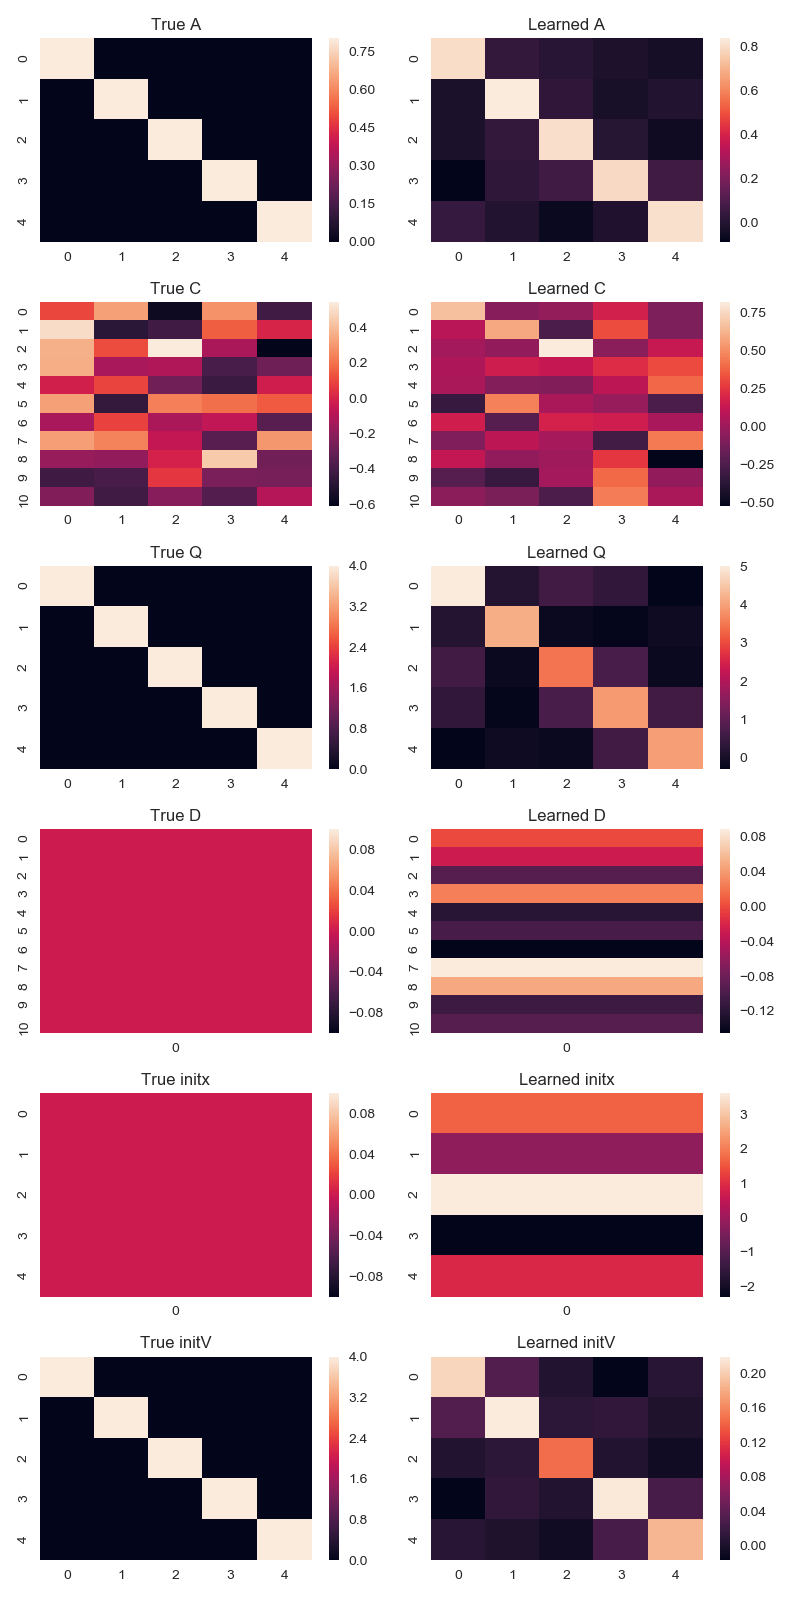
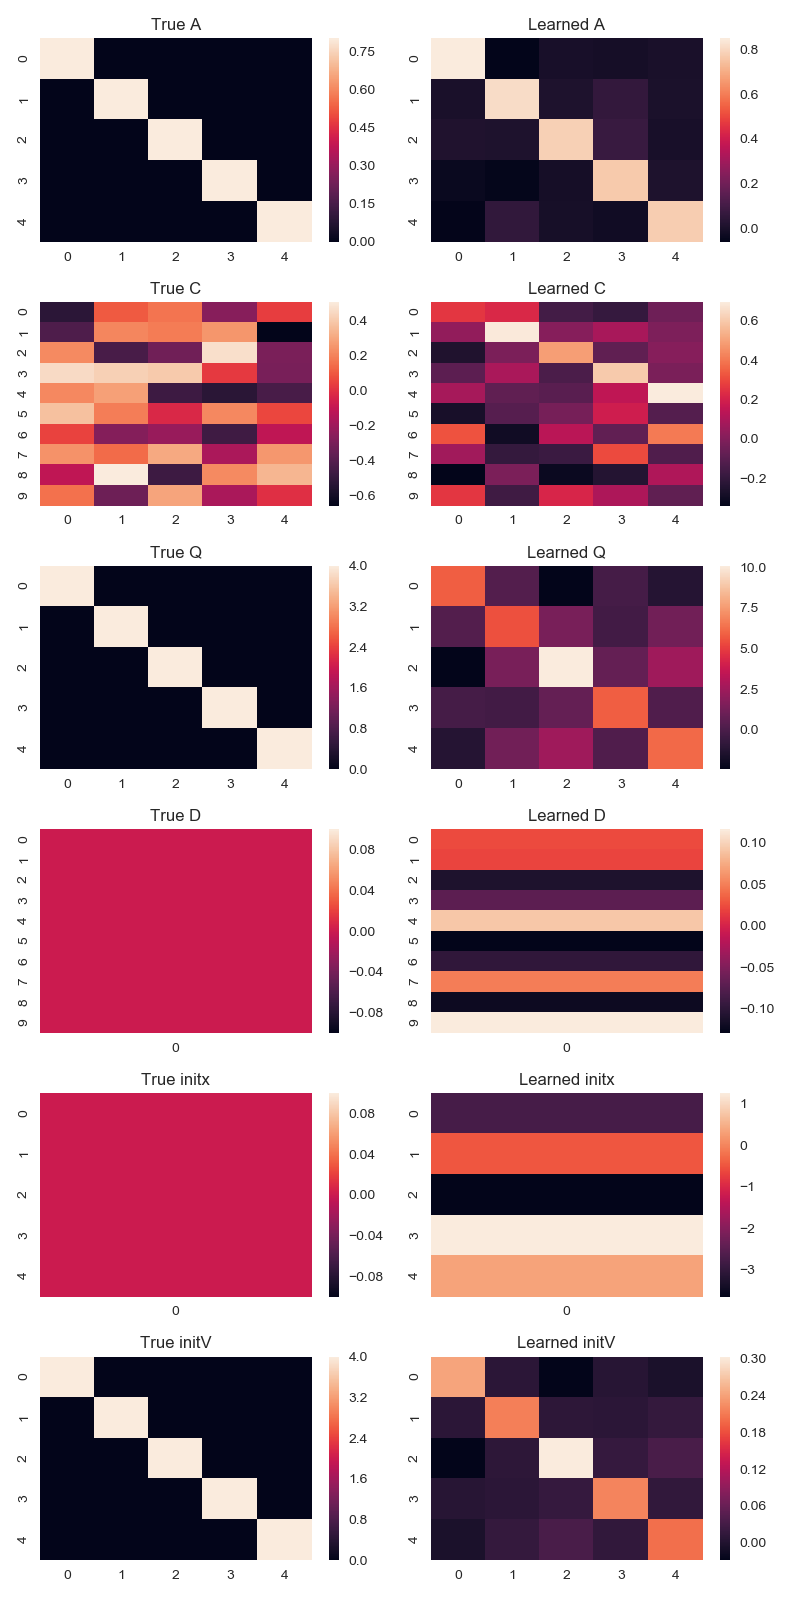
Light refactoring, fixed variance plotting bug

diff --git a/cvi.py b/cvi.py
@@ -4,8 +4,8 @@ import os
 from learn_kalman import learn_kalman
 from kalman_filter import kalman_smoother, kalman_filter
 from cvi_helpers import get_elbo, E_log_p_mc, make_y_R_tilde, sample_posterior, maximize_non_conjugate
-from utils import dotdict, plot_posterior, plot_learned_matrices
-from get_data import get_poission_model
+from utils import dotdict, plot_posterior, plot_learned_matrices, print_status
+from get_data import get_poission_model, get_parameters
 import tensorflow as tf
 # Supress TF warning
 os.environ['TF_CPP_MIN_LOG_LEVEL'] = '3'
@@ -49,12 +49,9 @@ def train(args):
     xfilt, Vfilt, VVfilt, loglik = kalman_filter(
         y_tilde, A, C, Q, R_tilde, initx, initV)
 
-    print "===========Running CVI==============="
-    if args.learn_matrices:
-        print "--------Learning Parameters----------"
-    else:
-        print "--------Using True Parameters--------"
-    print "====================================="
+    # print
+    print_status(args)
+
     elbo = []
     all_loglik = []
     for i in range(args.cvi_iters):
@@ -78,9 +75,9 @@ def train(args):
         xfilt, Vfilt, VVfilt, loglik = kalman_filter(
             y_tilde, A, C, Q, R_tilde, initx, initV)
 
+        # Get smoothed posteriors (for plotting + M step)
         xsmooth, Vsmooth, VVsmooth, loglik = kalman_smoother(
             y_tilde, A, C, Q, R_tilde, initx, initV)
-
         # ------------ end -----------
 
         # -----------M Step -----------
@@ -108,7 +105,7 @@ def train(args):
         # ------------ end -----------
 
         # Save elbo + loglik
-        elbo += [get_elbo(fb, y_tilde, xfilt, Vfilt, R_tilde, C, loglik)]
+        elbo += [get_elbo(fb, y_tilde, xfilt, Vfilt, R_tilde, C, D, loglik)]
         all_loglik += [loglik]
 
         print "Iteration %i, LogLik: %f" % (i, loglik)
@@ -137,14 +134,14 @@ if __name__ == '__main__':
     # Hyperparameters
     args = dotdict()
     args.ls = 5
-    args.os = 11
-    args.T = 310
+    args.os = 10
+    args.T  = 500
     args.cvi_iters = 15
-    args.mstep_lr = 0.05
+    args.mstep_lr  = 0.05
     args.mstep_iters = 200
     args.nSamples = 500
-    args.verbose = False
-    args.seed = 10
+    args.verbose  = False
+    args.seed     = 10
 
     # Set seed
     np.random.seed(args.seed)
@@ -159,18 +156,19 @@ if __name__ == '__main__':
     args.y_data = y_data.T
 
     # Get true parameters
-    A, QChol, Q0Chol, x0, W, b = true_model.getParams()
-    args.A_true = A.get_value()
-    args.C_true = W.get_value().T
-    args.Q_true = np.matmul(QChol.get_value(), QChol.get_value().T)
-    args.D_true = np.expand_dims(b.get_value(), 1)
-    args.initx_true = np.expand_dims(x0.get_value(), 1)
-    args.initV_true = np.matmul(Q0Chol.get_value(), Q0Chol.get_value().T)
+    A, C, Q, D, initx, initV = get_parameters(true_model)
+    args.A_true = A
+    args.C_true = C
+    args.Q_true = Q
+    args.D_true = D
+    args.initx_true = initx
+    args.initV_true = initV
 
     # Train
     args.learn_matrices = False
     train(args)
 
+    # Learning matrices
     args.learn_matrices = True
     train(args)
 

diff --git a/cvi_helpers.py b/cvi_helpers.py
@@ -14,12 +14,12 @@ import tensorflow as tf
 # \end{align*}
 
 
-def get_elbo(Elog_p, ytilde, xfilt, Vfilt, R, C, logZ):
+def get_elbo(Elog_p, ytilde, xfilt, Vfilt, R, C, D, logZ):
     os, K = ytilde.shape
     elbo = 0
     for k in range(K):
         # v = y_kt - C*u_kt
-        v = column_vec(ytilde[:, k] - np.matmul(C, xfilt[:, k]))
+        v = column_vec(ytilde[:, k] - np.matmul(C, xfilt[:, k]) - D[:, 0])
         Rk = R[:, :, k]
         Rinv = np.linalg.inv(Rk)
 
@@ -135,9 +135,6 @@ def maximize_non_conjugate(data, lr = 0.01, iters=500, verbose=True):
 
     return Cval, Dval
 
-
-
-
 def make_y_R_tilde(tlam_1, tlam_2):
     assert tlam_1.shape == tlam_2.shape
     os, T = tlam_1.shape
@@ -150,48 +147,6 @@ def make_y_R_tilde(tlam_1, tlam_2):
         np.fill_diagonal(R_tilde[:, :, i], var_tilde[:, i])
 
     return y_tilde, R_tilde
-
-
-# def kalman_backwards_sampler(x, V, A, Q, sample_size=10):
-#     # Implementation follows:
-#     # http://people.isy.liu.se/rt/schon/Publications/LindstenS2013.pdf
-#     #  - section 1.7 Backward Simulation in Linear Gaussian SSMs,
-#     #  - equations 1.18b, 1.18c
-#     ls, T = x.shape
-#     raw_noise = np.random.randn(ls, sample_size)
-
-#     samples = np.zeros((ls, sample_size, T))
-
-#     # Initialize
-#     samples[:, :, T - 1] = chol_sample(raw_noise, x[:, T - 1], V[:, :, T - 1])
-
-#     for t in xrange(T - 2, -1, -1):
-#         Pt = V[:, :, t]
-#         xt = x[:, t]
-#         xt = np.expand_dims(x[:, t], -1)
-
-#         # Make:
-#         # ut = xt + P*A.T*(Q + APA.T)^-1*(x_(t+1) - A*xt)
-#         # Mt = Pt - Pt*A.T*(Q + APA.T)^-1*APt
-
-#         # Dummy variables:
-#         # B = x_(t+1) - A*xt
-#         # Z = Q + APA.T
-#         # L = P*A.T
-
-#         # ut = xt + L*(Z^-1*B)
-#         B = samples[:, :, t + 1] - np.matmul(A, xt)
-#         Z = Q + np.matmul(A, np.matmul(Pt, A.T))
-#         L = np.matmul(Pt, A.T)
-#         ut = xt + np.matmul(L, np.linalg.solve(Z, B))
-
-#         # Mt = Pt - L*(Z^-1*L.T)
-#         Mt = Pt - np.matmul(L, np.linalg.solve(Z, L.T))
-
-#         # Sample
-#         samples[:, :, t] = chol_sample(raw_noise, ut, Mt)
-
-#     return samples
 
 
 def sample_posterior(x, V, nSamples):

diff --git a/utils.py b/utils.py
@@ -66,6 +66,15 @@ def check_format(y, mu, cov):
     return y, mu, cov
 
 
+def print_status(args):
+    print "===========Running CVI==============="
+    if args.learn_matrices:
+        print "--------Learning Parameters----------"
+    else:
+        print "--------Using True Parameters--------"
+    print "====================================="
+
+
 def plot_posterior(args, path='results.png'):
     # Init
     plt.close('all')
@@ -98,7 +107,7 @@ def plot_posterior(args, path='results.png'):
         ax = fig.add_subplot(3, 2, 3 + i)
         ax.plot(range(T), x_data[i, :], color = 'C1', label='True')
         ax.plot(range(T), xsmooth[i, :], color='C2',label='CVI')
-        ax.fill_between(range(T), x_data[i, :]-uncertainty[i, i, :], x_data[i, :]+uncertainty[i, i, :], color='C2', alpha=0.35)
+        ax.fill_between(range(T), xsmooth[i, :]-uncertainty[i, i, :], xsmooth[i, :]+uncertainty[i, i, :], color='C2', alpha=0.35)
         ax.set_title('Latent state, dimension {}'.format(str(i)))
         ax.set_xlabel('Timestep t')
         ax.legend(["True", "CVI"], loc='upper right')

diff --git a/get_data.py b/get_data.py
@@ -34,3 +34,15 @@ def get_poission_model(xDim, yDim, seed=1):
     true_model = PLDS(gendict, xDim, yDim, srng=msrng, nrng=mnrng)
 
     return true_model
+
+def get_parameters(model):
+    A, QChol, Q0Chol, x0, W, b = model.getParams()
+    A = A.get_value()
+    C = W.get_value().T
+    Q = np.matmul(QChol.get_value(), QChol.get_value().T)
+    D = np.expand_dims(b.get_value(), 1)
+    initx = np.expand_dims(x0.get_value(), 1)
+    initV = np.matmul(Q0Chol.get_value(), Q0Chol.get_value().T)
+
+    return A, C, Q, D, initx, initV
+
